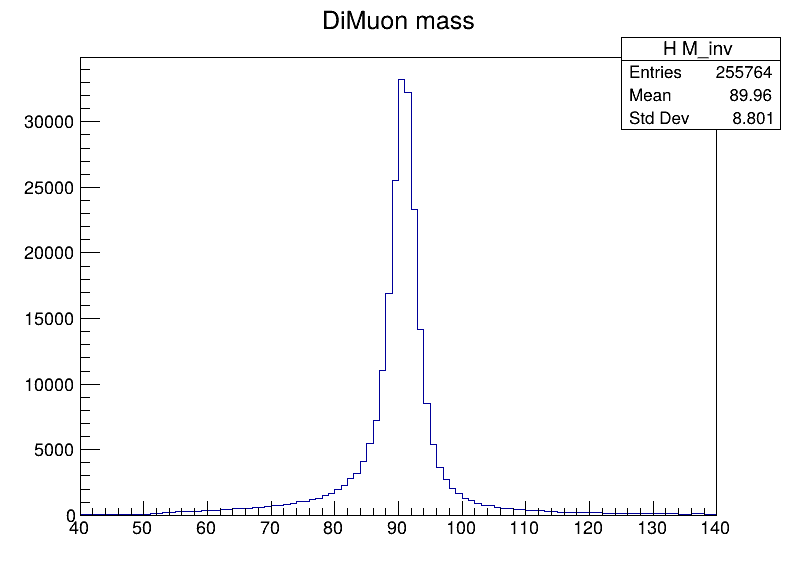
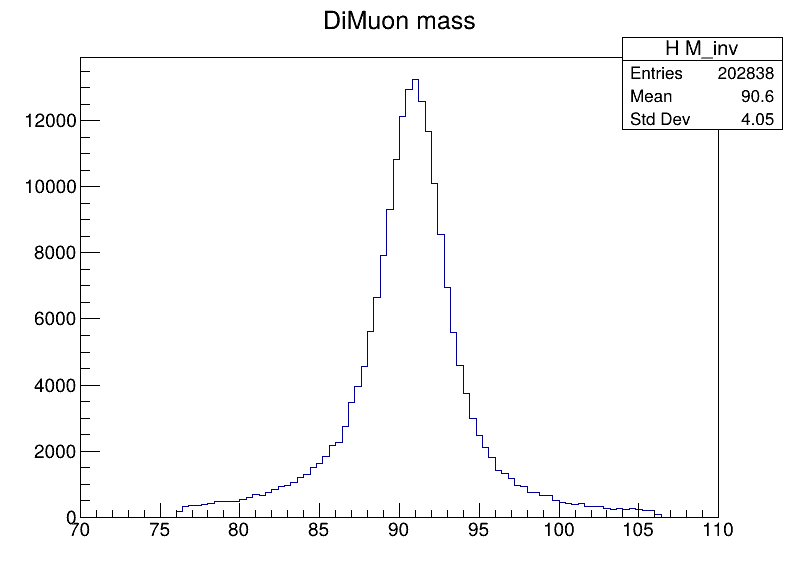
Implementato RDataFrame, miglioramenti da fare su tablet

diff --git a/src/main.cpp b/src/main.cpp
@@ -2,6 +2,7 @@
 #include <fstream>
 #include <cmath>
 
+#include <TSystem.h> 
 #include <TFile.h>
 #include <TTree.h>
 #include <Rtypes.h>
@@ -10,50 +11,87 @@
 #include <TLorentzVector.h>
 #include <ROOT/RDataFrame.hxx>
 
-void console(const char* fname){
+void Main(const char* fname){
 
-    //Path must be to a .root file, also a check
+    //Necessary imports for 4-vectors, compile macro with + at the end
 
-    TFile *f = TFile::Open(fname);
+    gSystem->Load("libPhysics"); 
 
-    if (!f || f->IsZombie()) { 
-        std::cerr << "Error: file not opened\n"; 
-        return;
-    }
+    //Import necessary to save graphs
 
-    //TTree initialization, also a check
+    std::string outdir = std::string(getenv("HOME")) + "/CMEPDA/Exam/Repo/graphs/";
 
-    TTree *t = (TTree*)f->Get("Events");
+    gSystem->mkdir(outdir.c_str(), true);
 
-    if (!t) {
-        std::cerr << "Error: tree not opened\n";
-        return;
-    }
+    //Initializing DataFrame, fname must be to a .root file
 
-    //Number of events
+    ROOT::RDataFrame df("Events", fname);
 
-    ULong64_t N = t->GetEntries();
+    /* 
 
-    //Muon number, charge, tranverse momentum, pseudorapidity, phi and mass variables
+    Z^0 peak is reconstructed with the following filter (based on article):
 
-    UInt_t n;
-    Int_t q[100];
-    Float_t pt[100], eta[100], phi[100], m[100];
+    1) 2 Muon tracks (nMuon == 2)
+    2) Neutral state (Sum of Muon_charge == 0)
+    3) Must be isolated (RelIso03 < 0.15)
+    4) High transverse momentum (Muon_pt > 25 GeV)
+    5) Defined region of Pseudorapidity (|Muon_eta| < 2.4)
 
-    //Address setting
+    */
 
-    t->SetBranchAddress("nMuon", &n);
-    t->SetBranchAddress("Muon_charge", &q);
-    t->SetBranchAddress("Muon_pt", &pt);
-    t->SetBranchAddress("Muon_eta", &eta);
-    t->SetBranchAddress("Muon_phi", &phi);
-    t->SetBranchAddress("Muon_mass", &m);
+    auto filtered = df.Filter("nMuon == 2 && "
+                              "Muon_charge[0] + Muon_charge[1] == 0 &&"
+                              "Muon_pfRelIso03_all[0] < 0.15 && Muon_pfRelIso03_all[1] < 0.15 &&"
+                              "Muon_pt[0] > 25 && Muon_pt[1] > 25 &&"
+                              "abs(Muon_eta[0]) < 2.4 && abs(Muon_eta[1]) < 2.4");
 
+    //Need to define a new column with invariant mass, also restrict to value near Z^0 mass : abs(M_in - 91.1817) < 15
+
+    auto df2 = filtered.Define("Dimuon_mass", [](const ROOT::RVecF &pt, const ROOT::RVecF &eta, const ROOT::RVecF &phi, const ROOT::RVecF &mass){
+                               ROOT::Math::PtEtaPhiMVector p_1(pt[0],eta[0],phi[0], mass[0]);
+                               ROOT::Math::PtEtaPhiMVector p_2(pt[1],eta[1],phi[1], mass[1]);
+                               return (Float_t)(p_1 + p_2).M();}, {"Muon_pt", "Muon_eta", "Muon_phi", "Muon_mass"});
+
+    auto df3 = df2.Filter("abs(Dimuon_mass - 91.1817) < 15");
+
+    //Histogram for Invariant Mass
+
+    auto h_dmm = df3.Histo1D({"M_inv", "DiMuon_mass", 100, 70, 110}, "Dimuon_mass");
+    TCanvas *c_dmm = new TCanvas("M_inv", "DiMuon_mass_canvas", 800, 600);
+    h_dmm->Draw();
+    c_dmm->Update();
+    c_dmm->SaveAs((outdir + "DiMuonMass.png").c_str());
+
+    //Histogram for transverse momentum
+
+    auto h_pt = df3.Histo1D({"Pt", "Transverse_momentum", 100, 25, 200}, "Muon_pt");
+    TCanvas *c_pt = new TCanvas("Pt", "Transverse_momentum_canvas", 800, 600);
+    h_pt->Draw();
+    c_pt->Update();
+    c_pt->SaveAs((outdir +"DiMuonPT.png").c_str());
+
+    //Histogram for pseudorapidity
+
+    auto h_eta = df3.Histo1D({"Eta", "Muon_pseudorapidity", 100, -2.4, 2.4}, "Muon_eta");
+    TCanvas *c_eta = new TCanvas("Eta", "Pseudorapidity_canvas", 800, 600);
+    h_eta->Draw();
+    c_eta->Update();
+    c_eta->SaveAs((outdir + "DiMuonEta.png").c_str());
+
+    //Histogram for azimuthal angle
+
+    auto h_phi = df3.Histo1D({"Phi", "Azimuthal_angle", 100, -3.14, 3.14}, "Muon_phi");
+    TCanvas *c_phi = new TCanvas("Phi", "Azimuthal_angle_canvas", 800, 600);
+    h_phi->Draw();
+    c_phi->Update();
+    c_phi->SaveAs((outdir + "DiMuonPhi.png").c_str());
+
+    /*
     //Histogram setup
 
-    TH1D *h = new TH1D("H M_inv", "DiMuon mass", 100, 40, 140);
+    TH1D *h = new TH1D("H M_inv", "DiMuon mass", 100, 70, 110);
 
-    //Event loop
+    //Event (explicit) loop
 
     for (ULong64_t k = 0; k < N; k++){
 
@@ -61,22 +99,20 @@ void console(const char* fname){
 
         //Selection : two muon tracks, with opposite charges, high transverse momentum and in certain eta range(article for explanation)
 
-        bool selection = (n == 2 && 
-                    q[0] + q[1] == 0 &&
-                    pt[0] >= 25 && pt[1] >=25 &&
-                    abs(eta[0]) <= 2.4 && abs(eta[1]) <= 2.4);
+        bool selection = ((n == 2) && (q[0] + q[1] == 0) && (pt[0] >= 25 && pt[1] >=25) && (abs(eta[0]) <= 2.4 && abs(eta[1]) <= 2.4) && (iso[0] < 0.15 && iso[1] < 0.15));
         
-        if (selection){
+        if (selection) {
 
             //4-impulse of the two muons, with hist fill of invariant mass
 
-            TLorentzVector p_1;
-            p_1.SetPtEtaPhiM(pt[0], eta[0], phi[0], m[0]);
+            TLorentzVector p_1, p_2;
 
-            TLorentzVector p_2;
+            p_1.SetPtEtaPhiM(pt[0], eta[0], phi[0], m[0]);
             p_2.SetPtEtaPhiM(pt[1], eta[1], phi[1], m[1]);
 
-            h->Fill((p_1 + p_2).M());
+            Float_t MdM = (p_1 + p_2).M();
+
+            if (abs(MdM - 91.1876) < 15){ h->Fill(MdM); }
 
         }
         
@@ -91,8 +127,8 @@ void console(const char* fname){
 
     //Clear
 
-    f->Close();
-    delete f;
-    delete c;
+    */
+
+    //delete c;
 
 }
